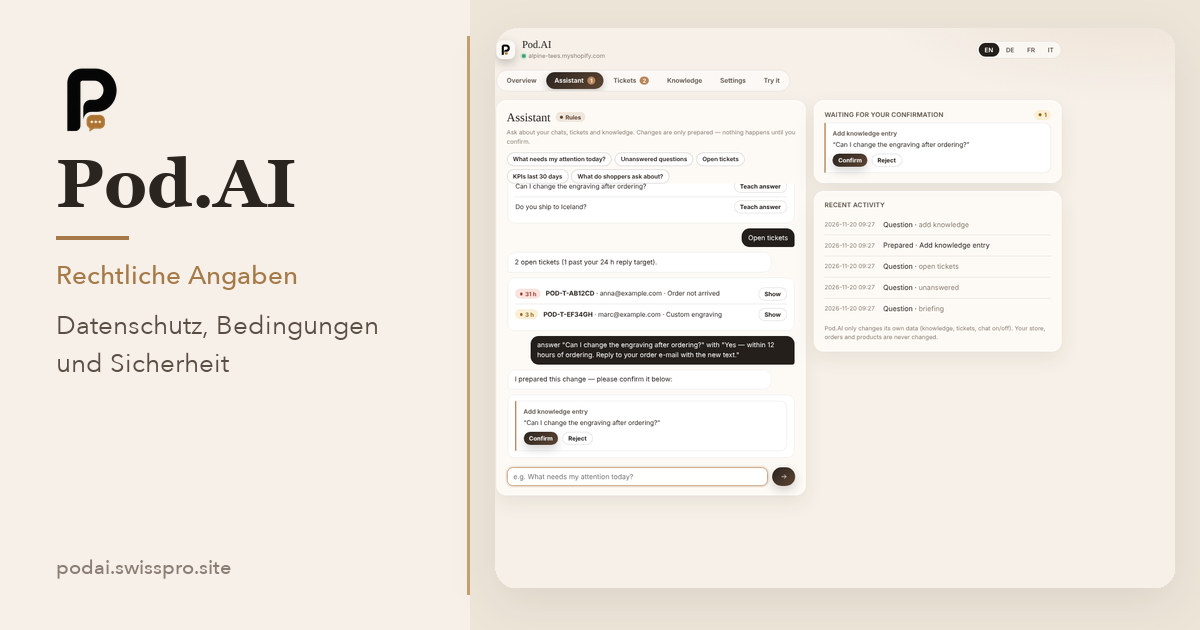
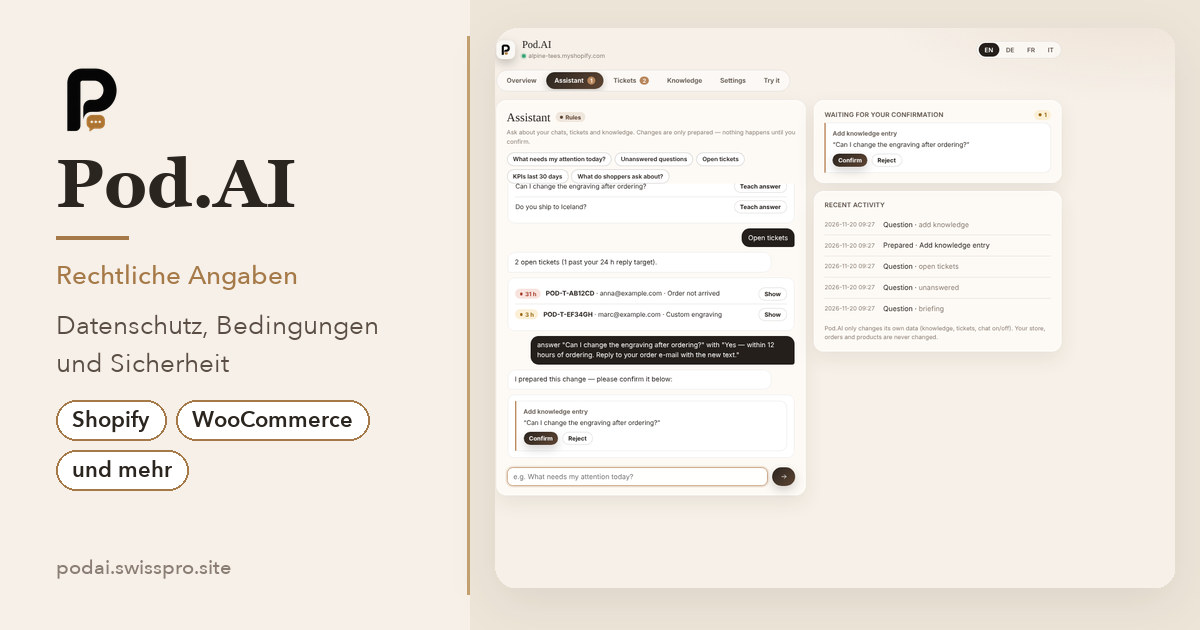
SEO: present Pod.AI share cards as a cross-platform agentic commerce agent
German og/twitter defaults and share images now show Shopify, WooCommerce
and more. The WooCommerce page is framed as one supported platform, not as
a WooCommerce-only chatbot product.

Changed region(s): [[0.0617, 0.6333, 0.3083, 0.7841]]

diff --git a/server/shopify-agent/support.html b/server/shopify-agent/support.html
@@ -15,7 +15,7 @@
 <meta property="og:locale:alternate" content="it_CH"/>
 <meta property="og:url" content="https://podai.swisspro.site/support"/>
 <meta property="og:title" content="Support und Ressourcen — Pod.AI"/>
-<meta property="og:description" content="Pod.AI installieren, Theme-Embed aktivieren, häufige Fragen und Kontakt zum Support-Team."/>
+<meta property="og:description" content="Pod.AI für Shopify, WooCommerce und mehr installieren, Theme-Embed aktivieren, häufige Fragen und Kontakt zum Support-Team."/>
 <meta property="og:image" content="https://podai.swisspro.site/assets/brand/og-podai-support.jpg"/>
 <meta property="og:image:width" content="1200"/>
 <meta property="og:image:height" content="630"/>
@@ -28,7 +28,7 @@
 <meta property="og:image:alt" content="Support und Ressourcen — Pod.AI"/>
 <meta name="twitter:card" content="summary_large_image"/>
 <meta name="twitter:title" content="Support und Ressourcen — Pod.AI"/>
-<meta name="twitter:description" content="Pod.AI installieren, Theme-Embed aktivieren, häufige Fragen und Kontakt zum Support-Team."/>
+<meta name="twitter:description" content="Pod.AI für Shopify, WooCommerce und mehr installieren, Theme-Embed aktivieren, häufige Fragen und Kontakt zum Support-Team."/>
 <meta name="twitter:image" content="https://podai.swisspro.site/assets/brand/og-podai-support.jpg"/>
 <script type="application/ld+json">
 {"@context":"https://schema.org","@graph":[{"@type":"Organization","@id":"https://podai.swisspro.site/#organization","name":"Pod.AI","legalName":"Dropking AI","url":"https://podai.swisspro.site/","email":"support@swisspro.site"},{"@type":"WebPage","@id":"https://podai.swisspro.site/support#webpage","url":"https://podai.swisspro.site/support","name":"Support & resources — Pod.AI","description":"Install Pod.AI, enable the theme embed, FAQ, and contact support.","isPartOf":{"@type":"WebSite","@id":"https://podai.swisspro.site/#website","url":"https://podai.swisspro.site/","name":"Pod.AI"},"about":{"@id":"https://podai.swisspro.site/#app"},"publisher":{"@id":"https://podai.swisspro.site/#organization"}},{"@type":"FAQPage","@id":"https://podai.swisspro.site/support#faq","url":"https://podai.swisspro.site/support","mainEntity":[{"@type":"Question","name":"Do I need an AI / LLM key?","acceptedAnswer":{"@type":"Answer","text":"No. Product, shipping, policy and order answers work from your store data without a key. An optional LLM can answer open questions when you turn it on."}},{"@type":"Question","name":"Which languages are supported?","acceptedAnswer":{"@type":"Answer","text":"English, German, French, Italian and Chinese are built in. More languages work when an LLM is enabled."}},{"@type":"Question","name":"How does order lookup work?","acceptedAnswer":{"@type":"Answer","text":"Shoppers provide order number and e-mail. The App checks they match, then shows status and tracking when available."}},{"@type":"Question","name":"Where do handoffs go?","acceptedAnswer":{"@type":"Answer","text":"Apps → Pod.AI → Handoffs. The shopper can leave a reply e-mail; your team answers by e-mail."}},{"@type":"Question","name":"Is customer data shared across stores?","acceptedAnswer":{"@type":"Answer","text":"No. Data is separated per shop and deleted after uninstall when the platform sends its shop-deletion request. See the Privacy Policy."}}]}]}

diff --git a/agent.html b/agent.html
@@ -12,21 +12,21 @@
 <meta property="og:locale:alternate" content="fr_CH"/>
 <meta property="og:locale:alternate" content="it_CH"/>
 <meta property="og:url" content="https://podai.swisspro.site/"/>
-<meta property="og:title" content="Pod.AI — KI-Agent für den Handel"/>
-<meta property="og:description" content="KI-Einkaufsassistent für Shopify und WooCommerce. Antwortet mit echten Shop-Daten, empfiehlt lagernde Produkte und legt sie in den Warenkorb. Plus MCP-API."/>
+<meta property="og:title" content="Pod.AI — Agentic-Commerce-KI-Agent"/>
+<meta property="og:description" content="Der Agentic-Commerce-KI-Agent für Shopify, WooCommerce und mehr. Antwortet mit echten Shop-Daten, empfiehlt lagernde Produkte, legt sie in den Warenkorb."/>
 <meta property="og:image" content="https://podai.swisspro.site/assets/brand/og-podai-home.jpg"/>
 <meta property="og:image:width" content="1200"/>
 <meta property="og:image:height" content="630"/>
 <meta property="og:image:type" content="image/jpeg"/>
-<meta property="og:image:alt" content="Pod.AI — KI-Agent für den Handel"/>
+<meta property="og:image:alt" content="Pod.AI — Agentic-Commerce-KI-Agent"/>
 <meta property="og:image" content="https://podai.swisspro.site/assets/brand/og-podai-square.jpg"/>
 <meta property="og:image:width" content="600"/>
 <meta property="og:image:height" content="600"/>
 <meta property="og:image:type" content="image/jpeg"/>
-<meta property="og:image:alt" content="Pod.AI — KI-Agent für den Handel"/>
+<meta property="og:image:alt" content="Pod.AI — Agentic-Commerce-KI-Agent"/>
 <meta name="twitter:card" content="summary_large_image"/>
-<meta name="twitter:title" content="Pod.AI — KI-Agent für den Handel"/>
-<meta name="twitter:description" content="KI-Einkaufsassistent für Shopify und WooCommerce. Antwortet mit echten Shop-Daten, empfiehlt lagernde Produkte und legt sie in den Warenkorb. Plus MCP-API."/>
+<meta name="twitter:title" content="Pod.AI — Agentic-Commerce-KI-Agent"/>
+<meta name="twitter:description" content="Der Agentic-Commerce-KI-Agent für Shopify, WooCommerce und mehr. Antwortet mit echten Shop-Daten, empfiehlt lagernde Produkte, legt sie in den Warenkorb."/>
 <meta name="twitter:image" content="https://podai.swisspro.site/assets/brand/og-podai-home.jpg"/>
 <link rel="icon" type="image/png" sizes="32x32" href="/assets/brand/icon-32.png?v=20261109e"/>
 <link rel="apple-touch-icon" sizes="180x180" href="/assets/brand/icon-180.png?v=20261109e"/>

diff --git a/server/shopify-agent/woocommerce.html b/server/shopify-agent/woocommerce.html
@@ -13,21 +13,21 @@
 <meta property="og:locale:alternate" content="fr_CH"/>
 <meta property="og:locale:alternate" content="it_CH"/>
 <meta property="og:url" content="https://podai.swisspro.site/woocommerce"/>
-<meta property="og:title" content="WooCommerce KI-Chatbot — Pod.AI"/>
-<meta property="og:description" content="Das Pod.AI Plugin für WooCommerce: KI-Chatbot und Einkaufsassistent aus Ihren Shop-Daten, mit Warenkorb, Bestellungen und MCP-API."/>
+<meta property="og:title" content="Pod.AI für WooCommerce"/>
+<meta property="og:description" content="Pod.AI auch für WooCommerce: derselbe Agentic-Commerce-KI-Agent wie für Shopify und andere Plattformen, mit Warenkorb, Bestellungen und MCP-API."/>
 <meta property="og:image" content="https://podai.swisspro.site/assets/brand/og-podai-woo.jpg"/>
 <meta property="og:image:width" content="1200"/>
 <meta property="og:image:height" content="630"/>
 <meta property="og:image:type" content="image/jpeg"/>
-<meta property="og:image:alt" content="WooCommerce KI-Chatbot — Pod.AI"/>
+<meta property="og:image:alt" content="Pod.AI für WooCommerce"/>
 <meta property="og:image" content="https://podai.swisspro.site/assets/brand/og-podai-square.jpg"/>
 <meta property="og:image:width" content="600"/>
 <meta property="og:image:height" content="600"/>
 <meta property="og:image:type" content="image/jpeg"/>
-<meta property="og:image:alt" content="WooCommerce KI-Chatbot — Pod.AI"/>
+<meta property="og:image:alt" content="Pod.AI für WooCommerce"/>
 <meta name="twitter:card" content="summary_large_image"/>
-<meta name="twitter:title" content="WooCommerce KI-Chatbot — Pod.AI"/>
-<meta name="twitter:description" content="Das Pod.AI Plugin für WooCommerce: KI-Chatbot und Einkaufsassistent aus Ihren Shop-Daten, mit Warenkorb, Bestellungen und MCP-API."/>
+<meta name="twitter:title" content="Pod.AI für WooCommerce"/>
+<meta name="twitter:description" content="Pod.AI auch für WooCommerce: derselbe Agentic-Commerce-KI-Agent wie für Shopify und andere Plattformen, mit Warenkorb, Bestellungen und MCP-API."/>
 <meta name="twitter:image" content="https://podai.swisspro.site/assets/brand/og-podai-woo.jpg"/>
 <style>
 :root{--ink:#2b2520;--mut:#6f655c;--bg:#f6f1ea;--card:#fffdf9;--line:#e7ded3;--acc:#b07a4f}

diff --git a/server/shopify-agent/security.html b/server/shopify-agent/security.html
@@ -11,7 +11,7 @@
 <meta property="og:locale:alternate" content="it_CH"/>
 <meta property="og:url" content="https://podai.swisspro.site/security"/>
 <meta property="og:title" content="Sicherheit und Vorfälle — Pod.AI"/>
-<meta property="og:description" content="Wie Dropking AI die Daten von Pod.AI schützt und auf Sicherheitsvorfälle reagiert."/>
+<meta property="og:description" content="Wie Dropking AI die Daten von Pod.AI schützt, auch in Shopify-, WooCommerce- und anderen verbundenen Shops."/>
 <meta property="og:image" content="https://podai.swisspro.site/assets/brand/og-podai-legal.jpg"/>
 <meta property="og:image:width" content="1200"/>
 <meta property="og:image:height" content="630"/>
@@ -24,7 +24,7 @@
 <meta property="og:image:alt" content="Sicherheit und Vorfälle — Pod.AI"/>
 <meta name="twitter:card" content="summary_large_image"/>
 <meta name="twitter:title" content="Sicherheit und Vorfälle — Pod.AI"/>
-<meta name="twitter:description" content="Wie Dropking AI die Daten von Pod.AI schützt und auf Sicherheitsvorfälle reagiert."/>
+<meta name="twitter:description" content="Wie Dropking AI die Daten von Pod.AI schützt, auch in Shopify-, WooCommerce- und anderen verbundenen Shops."/>
 <meta name="twitter:image" content="https://podai.swisspro.site/assets/brand/og-podai-legal.jpg"/>
 <script type="application/ld+json">
 {"@context":"https://schema.org","@graph":[{"@type":"Organization","@id":"https://podai.swisspro.site/#organization","name":"Pod.AI","legalName":"Dropking AI","url":"https://podai.swisspro.site/","email":"support@swisspro.site"},{"@type":"WebPage","@id":"https://podai.swisspro.site/security#webpage","url":"https://podai.swisspro.site/security","name":"Security & Incident Response Policy — Pod.AI","description":"How Dropking AI secures Pod.AI data and responds to security incidents.","isPartOf":{"@type":"WebSite","@id":"https://podai.swisspro.site/#website","url":"https://podai.swisspro.site/","name":"Pod.AI"},"about":{"@id":"https://podai.swisspro.site/#app"},"publisher":{"@id":"https://podai.swisspro.site/#organization"}}]}

diff --git a/server/shopify-agent/dpa.html b/server/shopify-agent/dpa.html
@@ -11,7 +11,7 @@
 <meta property="og:locale:alternate" content="it_CH"/>
 <meta property="og:url" content="https://podai.swisspro.site/dpa"/>
 <meta property="og:title" content="Auftragsbearbeitungsvertrag — Pod.AI"/>
-<meta property="og:description" content="Auftragsbearbeitungsvertrag (DPA) für Händler, die die Pod.AI App nutzen."/>
+<meta property="og:description" content="Auftragsbearbeitungsvertrag (DPA) für Händler, die Pod.AI in Shopify, WooCommerce oder anderen Shops nutzen."/>
 <meta property="og:image" content="https://podai.swisspro.site/assets/brand/og-podai-legal.jpg"/>
 <meta property="og:image:width" content="1200"/>
 <meta property="og:image:height" content="630"/>
@@ -24,7 +24,7 @@
 <meta property="og:image:alt" content="Auftragsbearbeitungsvertrag — Pod.AI"/>
 <meta name="twitter:card" content="summary_large_image"/>
 <meta name="twitter:title" content="Auftragsbearbeitungsvertrag — Pod.AI"/>
-<meta name="twitter:description" content="Auftragsbearbeitungsvertrag (DPA) für Händler, die die Pod.AI App nutzen."/>
+<meta name="twitter:description" content="Auftragsbearbeitungsvertrag (DPA) für Händler, die Pod.AI in Shopify, WooCommerce oder anderen Shops nutzen."/>
 <meta name="twitter:image" content="https://podai.swisspro.site/assets/brand/og-podai-legal.jpg"/>
 <script type="application/ld+json">
 {"@context":"https://schema.org","@graph":[{"@type":"Organization","@id":"https://podai.swisspro.site/#organization","name":"Pod.AI","legalName":"Dropking AI","url":"https://podai.swisspro.site/","email":"support@swisspro.site"},{"@type":"WebPage","@id":"https://podai.swisspro.site/dpa#webpage","url":"https://podai.swisspro.site/dpa","name":"Data Processing Addendum — Pod.AI","description":"Data Processing Addendum for merchants using the Pod.AI Shopify app.","isPartOf":{"@type":"WebSite","@id":"https://podai.swisspro.site/#website","url":"https://podai.swisspro.site/","name":"Pod.AI"},"about":{"@id":"https://podai.swisspro.site/#app"},"publisher":{"@id":"https://podai.swisspro.site/#organization"}}]}

diff --git a/server/shopify-agent/terms.html b/server/shopify-agent/terms.html
@@ -12,7 +12,7 @@
 <meta property="og:locale:alternate" content="it_CH"/>
 <meta property="og:url" content="https://podai.swisspro.site/terms"/>
 <meta property="og:title" content="Nutzungsbedingungen — Pod.AI"/>
-<meta property="og:description" content="Nutzungsbedingungen der Pod.AI App, betrieben von Dropking AI."/>
+<meta property="og:description" content="Nutzungsbedingungen der Pod.AI App für Shopify, WooCommerce und weitere Plattformen, betrieben von Dropking AI."/>
 <meta property="og:image" content="https://podai.swisspro.site/assets/brand/og-podai-legal.jpg"/>
 <meta property="og:image:width" content="1200"/>
 <meta property="og:image:height" content="630"/>
@@ -25,7 +25,7 @@
 <meta property="og:image:alt" content="Nutzungsbedingungen — Pod.AI"/>
 <meta name="twitter:card" content="summary_large_image"/>
 <meta name="twitter:title" content="Nutzungsbedingungen — Pod.AI"/>
-<meta name="twitter:description" content="Nutzungsbedingungen der Pod.AI App, betrieben von Dropking AI."/>
+<meta name="twitter:description" content="Nutzungsbedingungen der Pod.AI App für Shopify, WooCommerce und weitere Plattformen, betrieben von Dropking AI."/>
 <meta name="twitter:image" content="https://podai.swisspro.site/assets/brand/og-podai-legal.jpg"/>
 <script type="application/ld+json">
 {"@context":"https://schema.org","@graph":[{"@type":"Organization","@id":"https://podai.swisspro.site/#organization","name":"Pod.AI","legalName":"Dropking AI","url":"https://podai.swisspro.site/","email":"support@swisspro.site"},{"@type":"WebPage","@id":"https://podai.swisspro.site/terms#webpage","url":"https://podai.swisspro.site/terms","name":"Terms of Service — Pod.AI","description":"Terms of service for the Pod.AI app operated by Dropking AI.","isPartOf":{"@type":"WebSite","@id":"https://podai.swisspro.site/#website","url":"https://podai.swisspro.site/","name":"Pod.AI"},"about":{"@id":"https://podai.swisspro.site/#app"},"publisher":{"@id":"https://podai.swisspro.site/#organization"}}]}

diff --git a/server/shopify-agent/privacy.html b/server/shopify-agent/privacy.html
@@ -11,7 +11,7 @@
 <meta property="og:locale:alternate" content="it_CH"/>
 <meta property="og:url" content="https://podai.swisspro.site/privacy"/>
 <meta property="og:title" content="Datenschutz — Pod.AI"/>
-<meta property="og:description" content="Wie die Pod.AI App Händler- und Kundendaten in Online-Shops verarbeitet."/>
+<meta property="og:description" content="Wie die Pod.AI App Händler- und Kundendaten in Shopify-, WooCommerce- und anderen Shops verarbeitet."/>
 <meta property="og:image" content="https://podai.swisspro.site/assets/brand/og-podai-legal.jpg"/>
 <meta property="og:image:width" content="1200"/>
 <meta property="og:image:height" content="630"/>
@@ -24,7 +24,7 @@
 <meta property="og:image:alt" content="Datenschutz — Pod.AI"/>
 <meta name="twitter:card" content="summary_large_image"/>
 <meta name="twitter:title" content="Datenschutz — Pod.AI"/>
-<meta name="twitter:description" content="Wie die Pod.AI App Händler- und Kundendaten in Online-Shops verarbeitet."/>
+<meta name="twitter:description" content="Wie die Pod.AI App Händler- und Kundendaten in Shopify-, WooCommerce- und anderen Shops verarbeitet."/>
 <meta name="twitter:image" content="https://podai.swisspro.site/assets/brand/og-podai-legal.jpg"/>
 <script type="application/ld+json">
 {"@context":"https://schema.org","@graph":[{"@type":"Organization","@id":"https://podai.swisspro.site/#organization","name":"Pod.AI","legalName":"Dropking AI","url":"https://podai.swisspro.site/","email":"support@swisspro.site"},{"@type":"WebPage","@id":"https://podai.swisspro.site/privacy#webpage","url":"https://podai.swisspro.site/privacy","name":"Privacy Policy — Pod.AI","description":"How the Pod.AI app handles merchant and customer data for online stores.","isPartOf":{"@type":"WebSite","@id":"https://podai.swisspro.site/#website","url":"https://podai.swisspro.site/","name":"Pod.AI"},"about":{"@id":"https://podai.swisspro.site/#app"},"publisher":{"@id":"https://podai.swisspro.site/#organization"}}]}

diff --git a/server/chat-i18n-test.js b/server/chat-i18n-test.js
@@ -95,6 +95,21 @@ try {
   }
   assert.match((await getHost("/", "podai.swisspro.site")).body, /"@type":"SoftwareApplication"/);
   assert.ok(!/"@type":"SoftwareApplication"/.test((await getHost("/", "pod.swisspro.site")).body));
+  // Pod.AI share cards present a cross-platform agent, not a WooCommerce-only product.
+  const podaiOgHome = (await getHost("/", "podai.swisspro.site")).body;
+  const podaiOgTitle = meta(podaiOgHome, /<meta property="og:title" content="([^"]+)"/);
+  const podaiOgDesc = meta(podaiOgHome, /<meta property="og:description" content="([^"]+)"/);
+  assert.match(podaiOgTitle, /Agentic-Commerce-KI-Agent/);
+  assert.ok(!/WooCommerce KI-Chatbot/i.test(podaiOgTitle));
+  assert.match(podaiOgDesc, /Shopify/);
+  assert.match(podaiOgDesc, /WooCommerce/);
+  assert.match(podaiOgDesc, /mehr/);
+  const wooOg = (await getHost("/woocommerce", "podai.swisspro.site")).body;
+  const wooTitle = meta(wooOg, /<meta property="og:title" content="([^"]+)"/);
+  const wooDesc = meta(wooOg, /<meta property="og:description" content="([^"]+)"/);
+  assert.equal(wooTitle, "Pod.AI für WooCommerce");
+  assert.match(wooDesc, /Shopify/);
+  assert.ok(!/WooCommerce KI-Chatbot/i.test(wooTitle + wooDesc));
   // WooCommerce plugin download: WordPress.org slug name; the old zip name keeps working.
   const zip = await getHost("/woocommerce/pod-ai-chat-for-woocommerce.zip", "podai.swisspro.site"); assert.equal(zip.status, 200); assert.match(zip.headers["content-disposition"] || "", /pod-ai-chat-for-woocommerce\.zip/);
   const oldZip = await getHost("/woocommerce/pod-ai-chat.zip", "podai.swisspro.site"); assert.equal(oldZip.status, 301); assert.equal(oldZip.headers.location, "/woocommerce/pod-ai-chat-for-woocommerce.zip");

diff --git a/scripts/generate-og-cards.py b/scripts/generate-og-cards.py
@@ -271,7 +271,35 @@ def main():
     save_jpeg(pod_sq, OUT / "og-pod-square.jpg")
 
     # --- Pod.AI cards: typography left, product UI in a framed window on the right
-    def podai_product_card(headline_lines, kicker="KI-Agent für den Handel"):
+
+    def draw_platform_pills(draw, x, y, highlight=None):
+        """Visible Shopify + WooCommerce + und mehr chips, readable at thumbnail size."""
+        font = font_avenir(22, 2)  # Demi Bold
+        labels = ["Shopify", "WooCommerce", "und mehr"]
+        # Lay out in one wrapping row, then fall back to a second row if needed.
+        max_w = 360
+        gap, pad_x, box_h = 10, 16, 40
+        row_x, row_y = x, y
+        for label in labels:
+            bb = draw.textbbox((0, 0), label, font=font)
+            tw = bb[2] - bb[0]
+            w = tw + pad_x * 2
+            if row_x > x and row_x + w > x + max_w:
+                row_x = x
+                row_y += box_h + 10
+            box = (row_x, row_y, row_x + w, row_y + box_h)
+            emph = highlight == label
+            if emph:
+                draw.rounded_rectangle(box, radius=20, fill=INK)
+                fill = CREAM
+            else:
+                draw.rounded_rectangle(box, radius=20, fill=WHITE, outline=GOLD, width=2)
+                fill = INK
+            draw.text((row_x + pad_x, row_y + box_h / 2), label, font=font, fill=fill, anchor="lm")
+            row_x += w + gap
+        return row_y + box_h
+
+    def podai_product_card(headline_lines, kicker="Agentic-Commerce-KI-Agent", highlight=None):
         canvas = Image.new("RGB", (W, H), CREAM)
         draw = ImageDraw.Draw(canvas)
         panel_w = 470
@@ -314,20 +342,23 @@ def main():
             draw.text((tx, ty), line, font=font_avenir(26, 7), fill=INK_SOFT, anchor="lt")
             bb = draw.textbbox((tx, ty), line, font=font_avenir(26, 7))
             ty = bb[3] + 6
+        ty += 16
+        ty = draw_platform_pills(draw, tx, ty, highlight=highlight)
         draw.text((tx, H - 56), "podai.swisspro.site", font=font_avenir(20, 5), fill=MUTED, anchor="ls")
         return canvas
 
     save_jpeg(
         podai_product_card(
-            ["Shopify · WooCommerce · MCP"],
-            kicker="KI-Agent für den Handel",
+            [],
+            kicker="Agentic-Commerce-KI-Agent",
         ),
         OUT / "og-podai-home.jpg",
     )
     save_jpeg(
         podai_product_card(
-            ["Einkaufsassistent für", "Ihren WooCommerce-Shop"],
-            kicker="WooCommerce KI-Chatbot",
+            ["Eine der unterstützten", "Plattformen"],
+            kicker="für WooCommerce",
+            highlight="WooCommerce",
         ),
         OUT / "og-podai-woo.jpg",
     )
@@ -348,9 +379,9 @@ def main():
 
     ai_sq = square_card(
         mark, "Pod.AI",
-        ["KI-Agent für den Handel"],
+        ["Agentic-Commerce-KI-Agent", "Shopify · WooCommerce · mehr"],
         "podai.swisspro.site",
-        font_georgia(68), font_avenir(26, 7),
+        font_georgia(68), font_avenir(24, 7),
     )
     save_jpeg(ai_sq, OUT / "og-podai-square.jpg")
     print("done")
